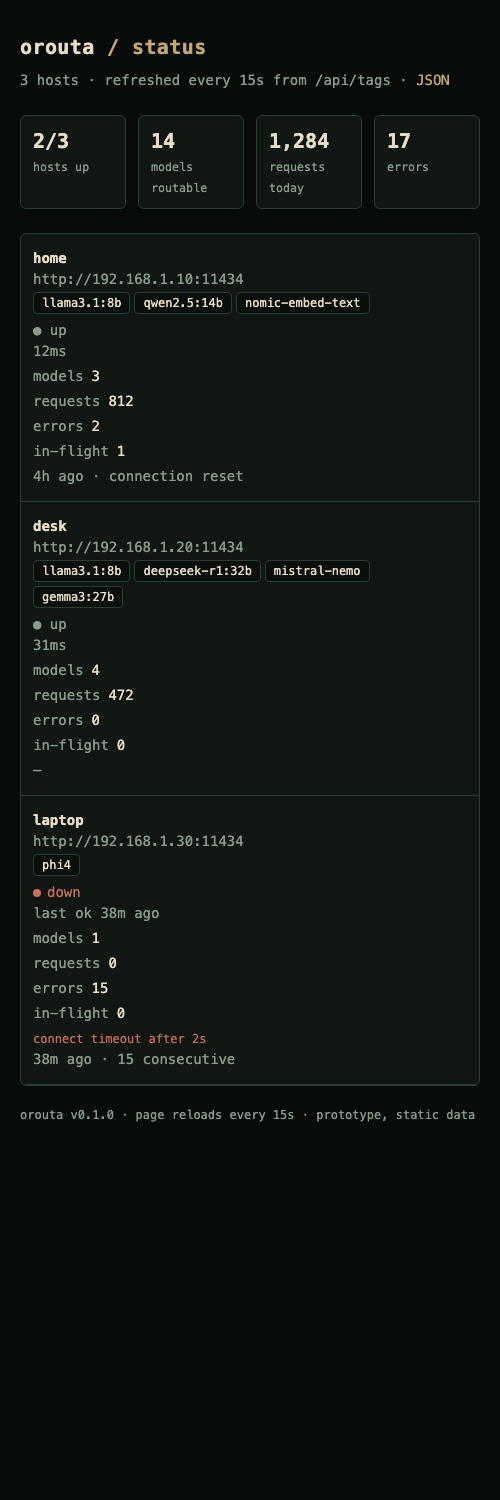
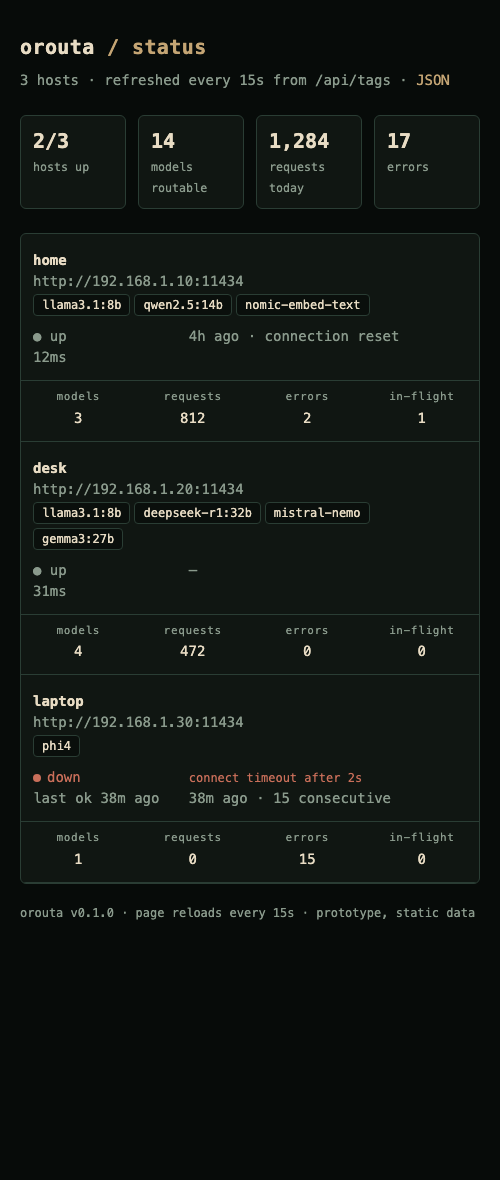
denser mobile layout: stats strip, reachable+last-error inline

diff --git a/prototypes/manage-light.html b/prototypes/manage-light.html
@@ -107,13 +107,17 @@
   footer { color: var(--muted); margin-top: 20px; font-size: 12px; }
   a { color: var(--accent); text-decoration: none; }
   @media (max-width: 720px) {
-    table, thead, tbody, tr, td, th { display: block; }
+    table, thead, tbody { display: block; }
     thead { display: none; }
-    tr { border-bottom: 1px solid var(--line); padding: 12px 0; }
+    tr { display: flex; flex-wrap: wrap; align-items: flex-start; border-bottom: 1px solid var(--line); padding: 14px 0 10px; }
     td { border: none; padding: 2px 12px; }
-    td.num { text-align: left; }
-    .num::before { content: attr(data-label); color: var(--muted); margin-right: 8px; }
-    .actions { margin-top: 8px; }
+    tr td:nth-child(1) { flex: 1 1 100%; order: 1; }
+    tr td:nth-child(2) { flex: 0 1 34%; order: 2; margin-top: 4px; }
+    tr td:nth-child(7) { flex: 1 1 60%; order: 3; margin-top: 4px; }
+    td.num { flex: 1 1 25%; order: 4; text-align: center; margin-top: 10px; padding-top: 8px; border-top: 1px solid var(--line); }
+    .num::before { content: attr(data-label); display: block; color: var(--muted); font-size: 11px; letter-spacing: 0.06em; margin-right: 0; margin-bottom: 2px; }
+    tr td:nth-child(8) { flex: 1 1 100%; order: 5; margin-top: 8px; padding-top: 8px; border-top: 1px solid var(--line); }
+    .actions { margin-top: 0; }
   }
 </style>
 </head>

diff --git a/prototypes/manage.html b/prototypes/manage.html
@@ -107,13 +107,17 @@
   footer { color: var(--muted); margin-top: 20px; font-size: 12px; }
   a { color: var(--accent); text-decoration: none; }
   @media (max-width: 720px) {
-    table, thead, tbody, tr, td, th { display: block; }
+    table, thead, tbody { display: block; }
     thead { display: none; }
-    tr { border-bottom: 1px solid var(--line); padding: 12px 0; }
+    tr { display: flex; flex-wrap: wrap; align-items: flex-start; border-bottom: 1px solid var(--line); padding: 14px 0 10px; }
     td { border: none; padding: 2px 12px; }
-    td.num { text-align: left; }
-    .num::before { content: attr(data-label); color: var(--muted); margin-right: 8px; }
-    .actions { margin-top: 8px; }
+    tr td:nth-child(1) { flex: 1 1 100%; order: 1; }
+    tr td:nth-child(2) { flex: 0 1 34%; order: 2; margin-top: 4px; }
+    tr td:nth-child(7) { flex: 1 1 60%; order: 3; margin-top: 4px; }
+    td.num { flex: 1 1 25%; order: 4; text-align: center; margin-top: 10px; padding-top: 8px; border-top: 1px solid var(--line); }
+    .num::before { content: attr(data-label); display: block; color: var(--muted); font-size: 11px; letter-spacing: 0.06em; margin-right: 0; margin-bottom: 2px; }
+    tr td:nth-child(8) { flex: 1 1 100%; order: 5; margin-top: 8px; padding-top: 8px; border-top: 1px solid var(--line); }
+    .actions { margin-top: 0; }
   }
 </style>
 </head>

diff --git a/prototypes/status.html b/prototypes/status.html
@@ -73,12 +73,15 @@
   footer { color: var(--muted); margin-top: 20px; font-size: 12px; }
   a { color: var(--accent); text-decoration: none; }
   @media (max-width: 720px) {
-    table, thead, tbody, tr, td, th { display: block; }
+    table, thead, tbody { display: block; }
     thead { display: none; }
-    tr { border-bottom: 1px solid var(--line); padding: 12px 0; }
+    tr { display: flex; flex-wrap: wrap; align-items: flex-start; border-bottom: 1px solid var(--line); padding: 14px 0 10px; }
     td { border: none; padding: 2px 12px; }
-    td.num { text-align: left; }
-    .num::before { content: attr(data-label); color: var(--muted); margin-right: 8px; }
+    tr td:nth-child(1) { flex: 1 1 100%; order: 1; }
+    tr td:nth-child(2) { flex: 0 1 34%; order: 2; margin-top: 4px; }
+    tr td:nth-child(7) { flex: 1 1 60%; order: 3; margin-top: 4px; }
+    td.num { flex: 1 1 25%; order: 4; text-align: center; margin-top: 10px; padding-top: 8px; border-top: 1px solid var(--line); }
+    .num::before { content: attr(data-label); display: block; color: var(--muted); font-size: 11px; letter-spacing: 0.06em; margin-right: 0; margin-bottom: 2px; }
   }
 </style>
 </head>
